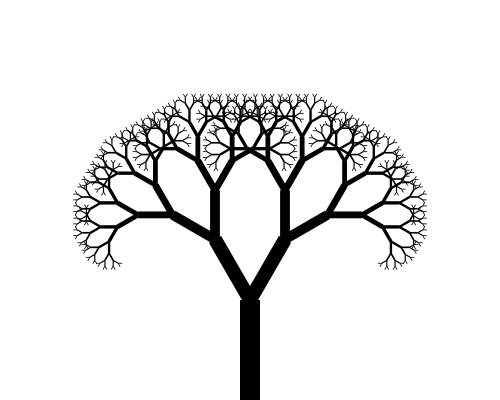
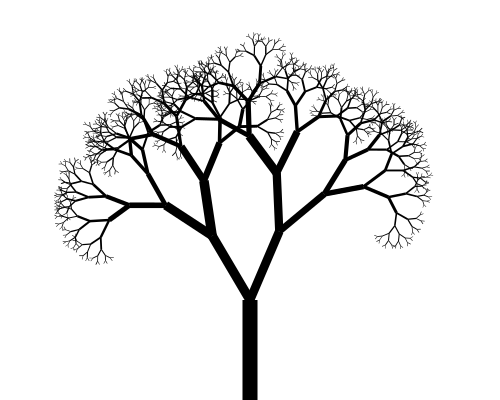
Use normal distributions

Changed region(s): [[0.09, 0.09, 0.87, 1.0]]

diff --git a/tree/main.ts b/tree/main.ts
@@ -1,9 +1,10 @@
 import { createCanvas, CanvasRenderingContext2D } from 'canvas';
 import fs from 'fs';
+import random from 'random';
 
-const TRUNK_WIDTH_RATIO = 0.2;
-const BRANCH_RATIO = 0.7;
-const BRANCH_ANGLE = Math.PI / 6;
+const TRUNK_WIDTH_RATIO = random.normal(0.15, 0.02);
+const BRANCH_RATIO = random.normal(0.7, 0.05);
+const BRANCH_ANGLE = random.normal(Math.PI / 6, 0.1);
 const SMALLEST_TREE = 3;
 
 function drawTree(ctx: CanvasRenderingContext2D, size: number): void {
@@ -11,21 +12,21 @@ function drawTree(ctx: CanvasRenderingContext2D, size: number): void {
         return;
     }
 
-    const trunkWidth = size * TRUNK_WIDTH_RATIO;
+    const trunkWidth = size * TRUNK_WIDTH_RATIO();
     ctx.fillStyle = 'black';
     ctx.fillRect(0 - trunkWidth / 2, 0, trunkWidth, size);
 
-    const branchSize = size * BRANCH_RATIO;
+    const branchSize = size * BRANCH_RATIO();
 
     ctx.translate(0, size);
 
     ctx.save();
-    ctx.rotate(-BRANCH_ANGLE);
+    ctx.rotate(-BRANCH_ANGLE());
     drawTree(ctx, branchSize);
     ctx.restore();
 
     ctx.save();
-    ctx.rotate(BRANCH_ANGLE);
+    ctx.rotate(BRANCH_ANGLE());
     drawTree(ctx, branchSize);
     ctx.restore();
 }
